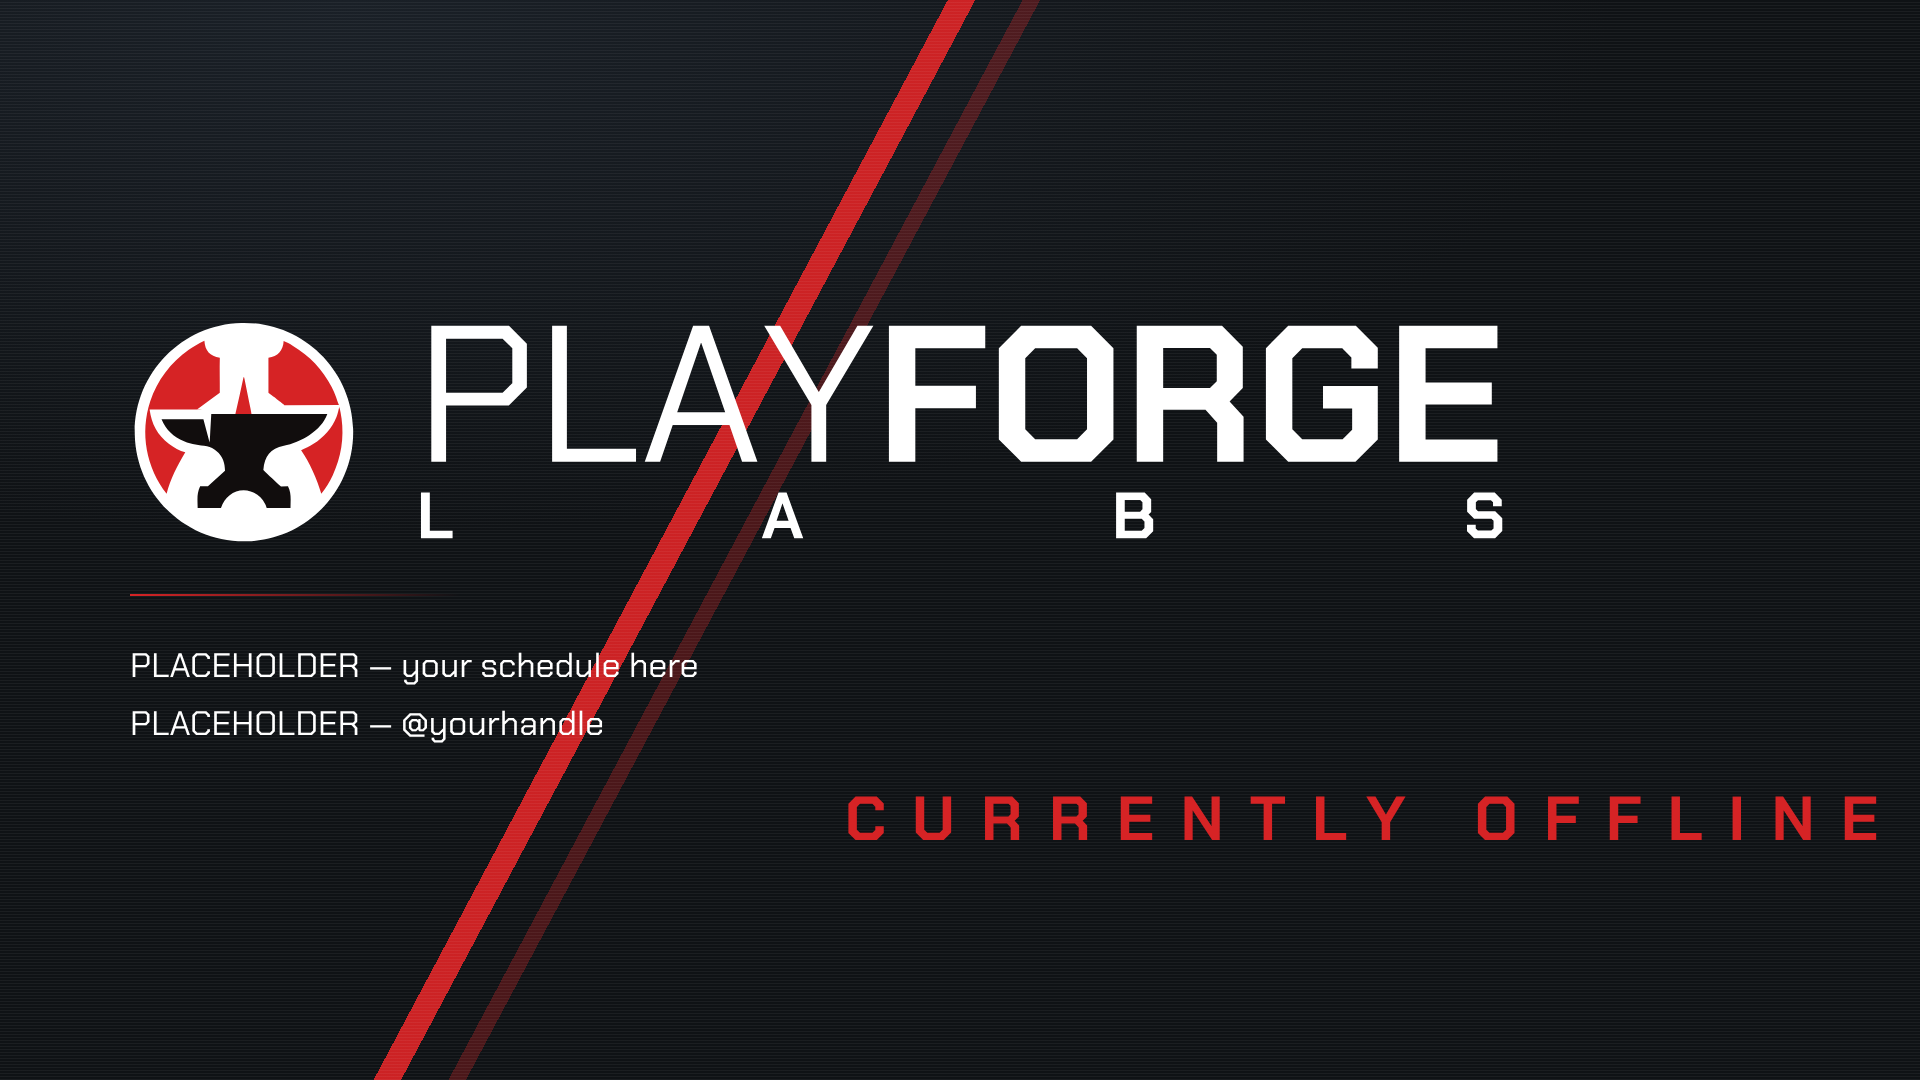
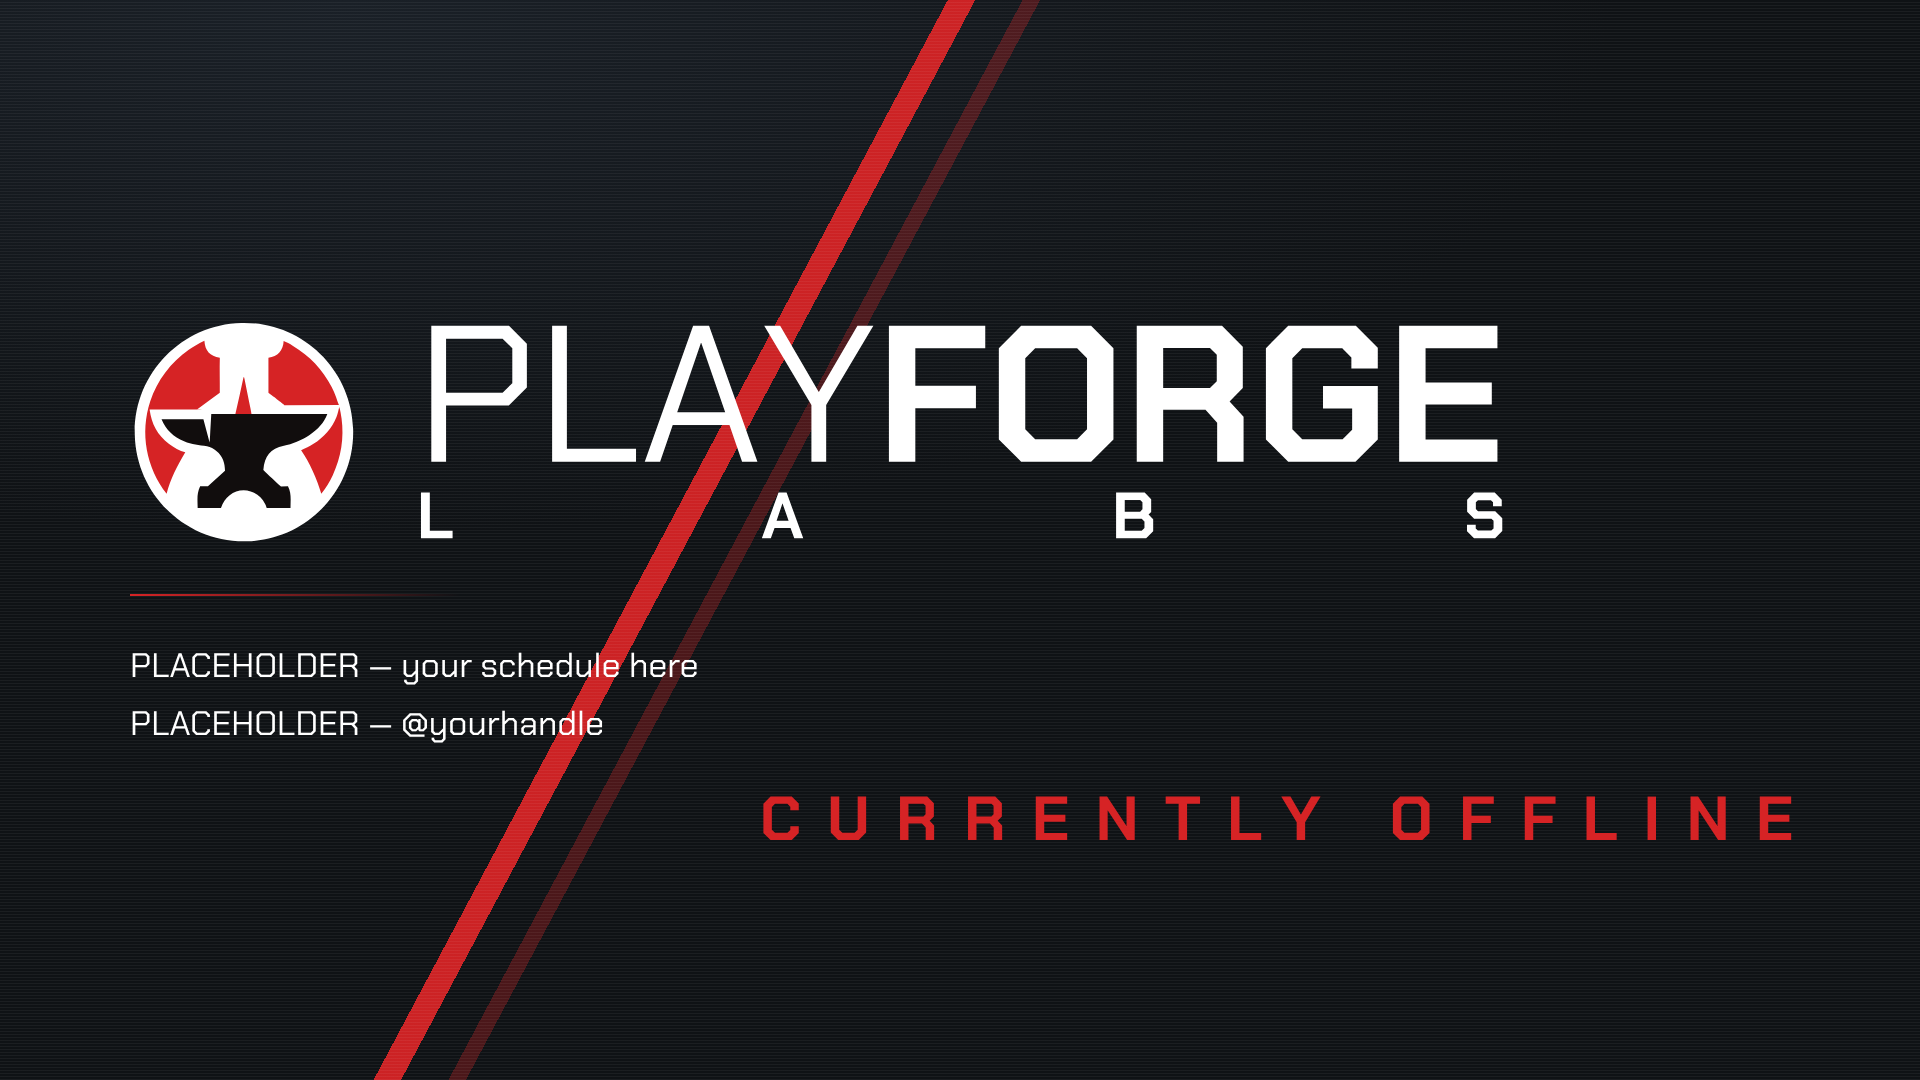
Shift "Currently offline" left by 10%
Label x position 845px to 760px.

Claude-Session: https://claude.ai/code/session_01VQpikmwb7K7sP9jWmUW1g1

Changed region(s): [[0.375, 0.7333, 1.0, 0.7944]]

diff --git a/brand/tools/channel.js b/brand/tools/channel.js
@@ -54,7 +54,7 @@ const SCENES = {
      <div>PLACEHOLDER &mdash; your schedule here</div>
      <div>PLACEHOLDER &mdash; @yourhandle</div>
    </div>
-   <div class="label" style="position:absolute;left:845px;top:72%;font-size:62px;font-weight:700;z-index:3">Currently offline</div>` },
+   <div class="label" style="position:absolute;left:760px;top:72%;font-size:62px;font-weight:700;z-index:3">Currently offline</div>` },
  'kick-banner':   { w:1920, h:1080, lock:1240, plate:'97%', pad:130, label:'Forged live', ls:28, overlap:true },
  'kick-offline':  { w:1920, h:1080, lock:1240, plate:'97%', pad:130, label:'Stream ended', ls:28, overlap:true },
 };
